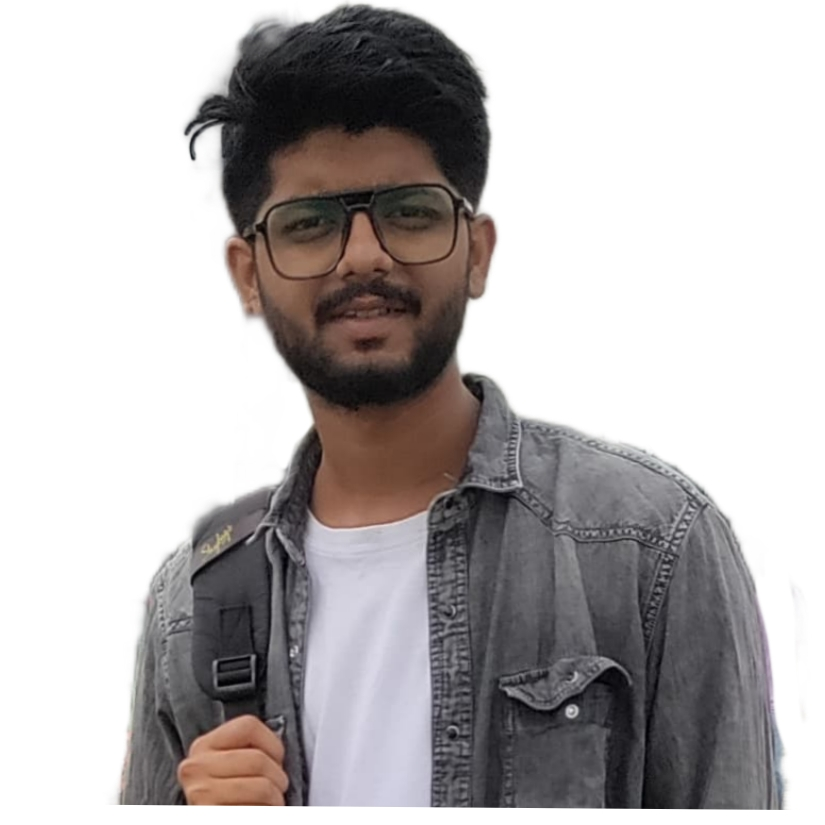
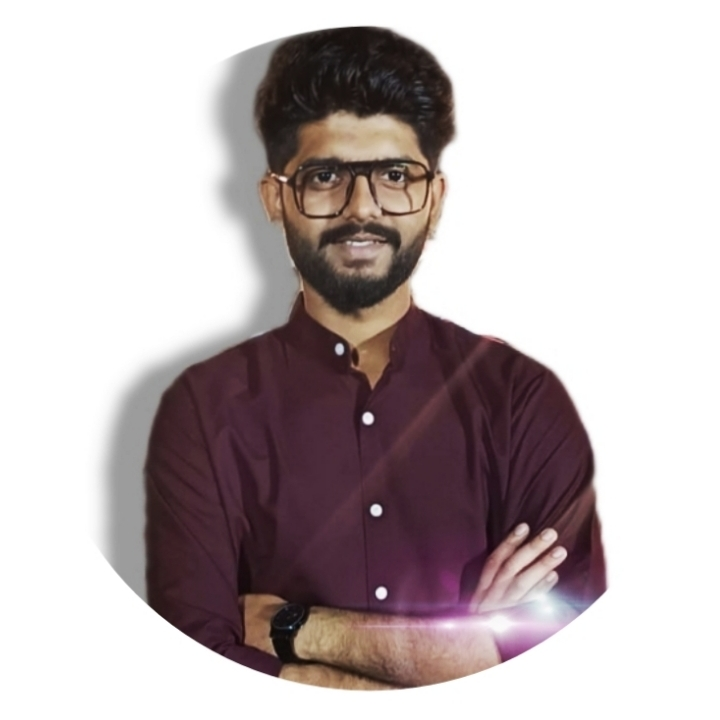
Profile photo changed

diff --git a/src/components/sections/Experience.jsx b/src/components/sections/Experience.jsx
@@ -66,7 +66,6 @@ export  function Experience() {
           </p>
         </motion.div>
 
-        {/* Education (Experience-style) Section */}
         <div className="mb-16">
           <motion.h3
             initial={{ opacity: 0, x: -30 }}
@@ -183,58 +182,51 @@ export  function Experience() {
           </div>
         </div>
 
-        {/* Certifications */}
-        <motion.div
-          initial={{ opacity: 0, y: 30 }}
-          whileInView={{ opacity: 1, y: 0 }}
-          transition={{ duration: 0.8, delay: 0.4 }}
-          viewport={{ once: true }}
-          className="mt-16"
-        >
-          <h3 className="text-2xl font-bold text-foreground mb-8">Certifications</h3>
+{/* Certifications */}
+<div className="mt-16">
+  <h3 className="text-2xl font-bold text-foreground mb-8">Certifications</h3>
 
-          <a href="https://coursera.org/verify/V76UOZ2JWO8E" 
-          target="_blank" 
-          rel="noopener noreferrer">
-
-          <Card className="p-6 bg-card border-border shadow-lg hover:shadow-purple transition-all duration-300  hover:cursor-pointer hover:scale-[1.02]">
-            <div className="flex items-center gap-4">
-              <div className="w-12 h-12 bg-primary/10 rounded-full flex items-center justify-center">
-                <Award className="w-6 h-6 text-primary" />
-              </div>
-              <div>
-                <h4 className="text-lg font-bold text-foreground">
-                  Unsupervised Learning, Recommenders & Reinforcement Learning
-                </h4>
-                <p className="text-primary font-medium">Stanford Online (Coursera)</p>
-                <p className="text-sm text-muted-foreground">Completed with verified certificate and badge</p>
-              </div>
-            </div>
-          </Card>
-          </a>
-
-          <a href="https://coursera.org/verify/MNFOQ5GZB6KX" 
-          target="_blank" 
-          rel="noopener noreferrer">         
-
-          <Card className="p-6 bg-card border-border shadow-lg hover:shadow-purple transition-all duration-300 mt-6  hover:cursor-pointer hover:scale-[1.02]">
-            <div className="flex items-center gap-4">
-              <div className="w-12 h-12 bg-primary/10 rounded-full flex items-center justify-center">
-                <Award className="w-6 h-6 text-primary" />
-              </div>
-              <div>
-                <h4 className="text-lg font-bold text-foreground">
-                  Generative AI: Prompt Engineering Basics
-                </h4>
-                <p className="text-primary font-medium"> IBM (Coursera) </p>
-                <p className="text-sm text-muted-foreground">Completed with verified certificate and badge</p>
-              </div>
-            </div>
-          </Card>
-          </a> 
-        </motion.div>
-
-      </div>
+  {[ 
+    {
+      href: "https://coursera.org/verify/V76UOZ2JWO8E",
+      title: "Unsupervised Learning, Recommenders & Reinforcement Learning",
+      org: "Stanford Online (Coursera)",
+      desc: "Completed with verified certificate and badge"
+    },
+    {
+      href: "https://coursera.org/verify/MNFOQ5GZB6KX",
+      title: "Generative AI: Prompt Engineering Basics",
+      org: "IBM (Coursera)",
+      desc: "Completed with verified certificate and badge"
+    }
+  ].map((cert, index) => (
+    <motion.a
+      key={index}
+      href={cert.href}
+      target="_blank"
+      rel="noopener noreferrer"
+      className="block"
+      initial={{ opacity: 0, x: index % 2 === 0 ? -50 : 50 }} 
+      whileInView={{ opacity: 1, x: 0 }}
+      transition={{ duration: 0.8, delay: index * 0.2 }}
+      viewport={{ once: true }}
+    >
+      <Card className={`p-6 bg-card border-border shadow-lg hover:shadow-purple transition-all duration-300 hover:cursor-pointer hover:scale-[1.02] ${index > 0 ? "mt-6" : ""}`}>
+        <div className="flex items-center gap-4">
+          <div className="w-12 h-12 bg-primary/10 rounded-full flex items-center justify-center">
+            <Award className="w-6 h-6 text-primary" />
+          </div>
+          <div>
+            <h4 className="text-lg font-bold text-foreground">{cert.title}</h4>
+            <p className="text-primary font-medium">{cert.org}</p>
+            <p className="text-sm text-muted-foreground">{cert.desc}</p>
+          </div>
+        </div>
+      </Card>
+    </motion.a>
+  ))}
+</div>
+</div>
     </section>
   );
 }

diff --git a/src/components/Navbar.jsx b/src/components/Navbar.jsx
@@ -62,7 +62,11 @@ export function Navbar() {
       <div className="max-w-7xl mx-auto px-4 sm:px-6 lg:px-8">
         <div className="flex items-center justify-between h-16">
           {/* Logo */}
-          <motion.div className="flex items-center space-x-3" whileHover={{ scale: 1.05 }}>
+          <motion.button 
+            className="flex items-center space-x-3" 
+            whileHover={{ scale: 1.05 }}
+            onClick={() => scrollToSection('#home')} // ✅ Added onClick to scroll to home
+          >
             <motion.img
               src={profileImage}
               alt="Shrish"
@@ -71,7 +75,7 @@ export function Navbar() {
             <motion.span className="text-xl font-bold font-montserrat text-gradient">
               Shrish
             </motion.span>
-          </motion.div>
+          </motion.button>
 
           {/* Desktop Nav */}
           <div className="hidden md:block">

diff --git a/index.html b/index.html
@@ -3,7 +3,7 @@
   <head>
     <meta charset="UTF-8" />
     <meta name="viewport" content="width=device-width, initial-scale=1.0" />
-    <title>Shrish - Portfolio</title>
+    <title>Shrish</title>
     <meta name="description" content="Shrish - AI/ML Enthusiast | Full Stack Developer Portfolio" />
     <meta name="author" content="Shrish" />
 
